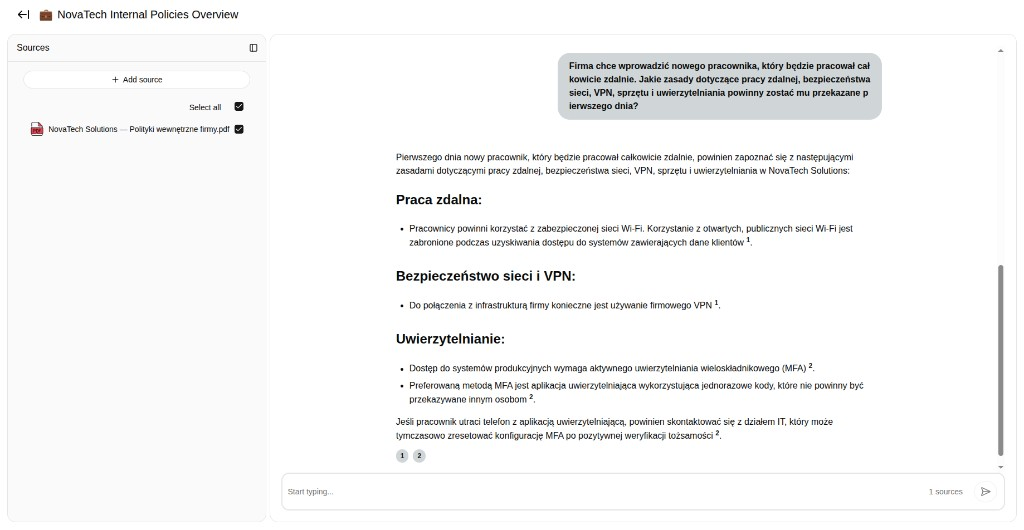
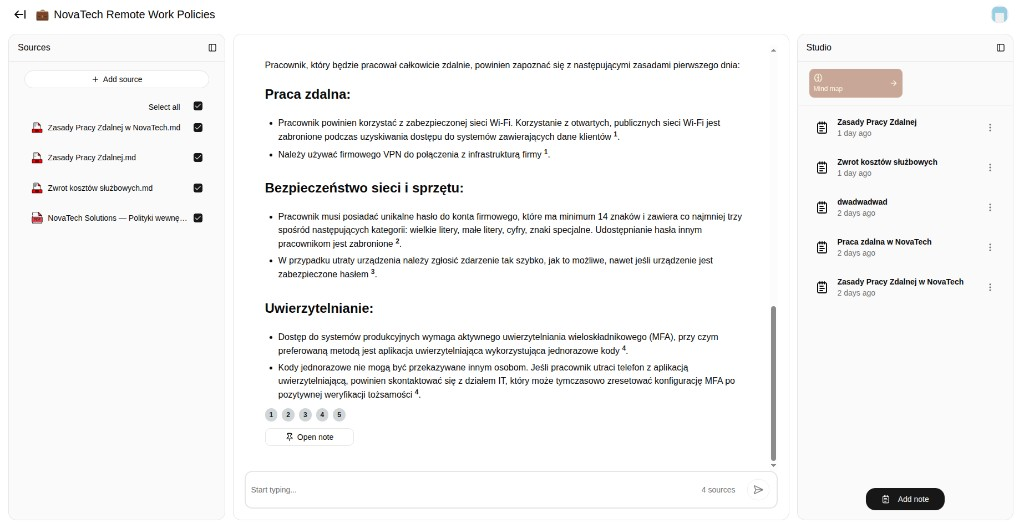
update_screens_and_readme

diff --git a/README.md b/README.md
@@ -4,22 +4,26 @@ Chat with your own files. Answers that need a fact from a document come with a c
 
 **Live demo:** (for now stopped, cost is too high) [https://3.78.61.131.sslip.io](https://3.78.61.131.sslip.io)
 
-[![Folio conversation with a policy PDF, cited answer, and source panel](docs/folio-chat.png)](https://3.78.61.131.sslip.io)
+[![Folio conversation: sources, cited answer, and Studio notes](docs/folio-chat.png)](https://3.78.61.131.sslip.io)
 
-![Conversation start with an auto-generated source overview](docs/folio-summary.png)
+![Conversation start with an auto-generated document catalog](docs/folio-summary.png)
 
 ## Try it
 
 1. Open the demo and choose **Sign up** (email + password, min. 6 characters).
 2. Confirm the address from the mail Supabase sends — check spam if it does not show up.
 3. **Sign in**, create a conversation, **Add source** (PDF, DOCX, TXT, MD, image, or a YouTube link).
-4. Ask a question about that file. Toggle sources on the left to control what the model may use.
+4. After ingest, a **document catalog** appears at the top of the chat so you can skim what is in the files before asking.
+5. Ask a question about that file. Toggle sources on the left to control what the model may use. Pin an answer into a **Studio** note, or write your own.
 
 Production accounts are rate-limited so a public demo stays up: **3 uploads / day**, **20 messages / day**, **10 conversations**, **5 MB / file**. Limits reset at 00:00 UTC.
 
 ## What it does
 
+- Three-panel workspace: **Sources**, chat, and **Studio**
 - Conversations with streaming replies and clickable citations
+- Auto-generated document catalog at the top of the chat after ingest
+- Studio notes — pin a reply or write one of your own
 - Per-turn source selection — files you do not select are not searched
 - Background ingest (parse → chunk → embed) so upload does not block the API
 - Hybrid retrieval: Postgres full-text + Pinecone vectors, then Cohere rerank
@@ -54,7 +58,7 @@ flowchart LR
   Agent --> WebSearch[Tavily]
 ```
 
-Upload stores the file and returns immediately. An ingest worker parses it, chunks it, writes vectors to Pinecone and text to Postgres. Chat runs an agent over SSE; Redis is the broker so more than one API process can share a run. Factual questions hit hybrid search (FTS + vectors + rerank). Summaries and web lookup are separate tools, not stuffed into one prompt.
+Upload stores the file and returns immediately. An ingest worker parses it, chunks it, writes vectors to Pinecone and text to Postgres, then synthesizes a document catalog for the conversation. Chat runs an agent over SSE; Redis is the broker so more than one API process can share a run. Factual questions hit hybrid search (FTS + vectors + rerank). Summaries and web lookup are separate tools, not stuffed into one prompt.
 
 ## Run locally
 
